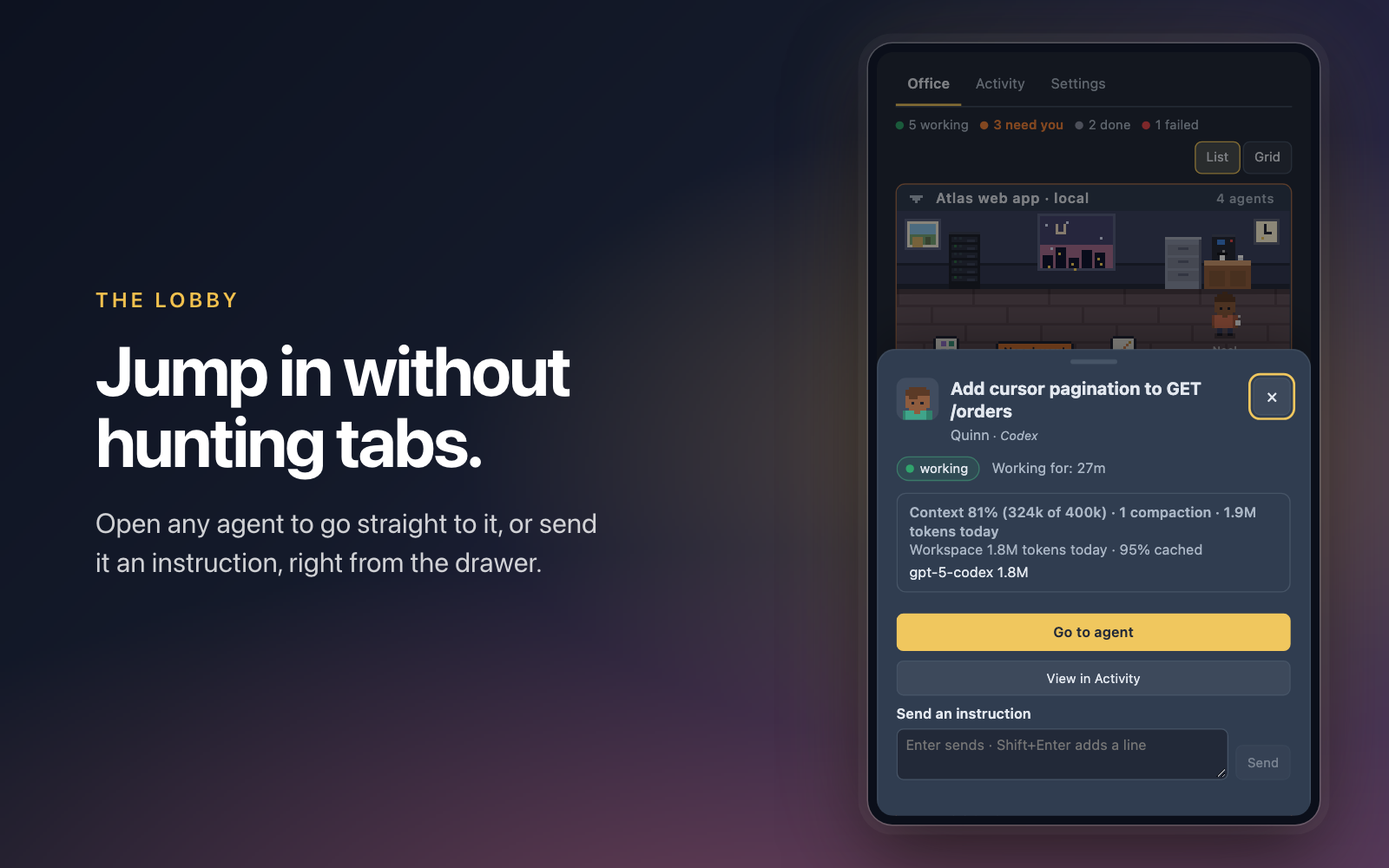
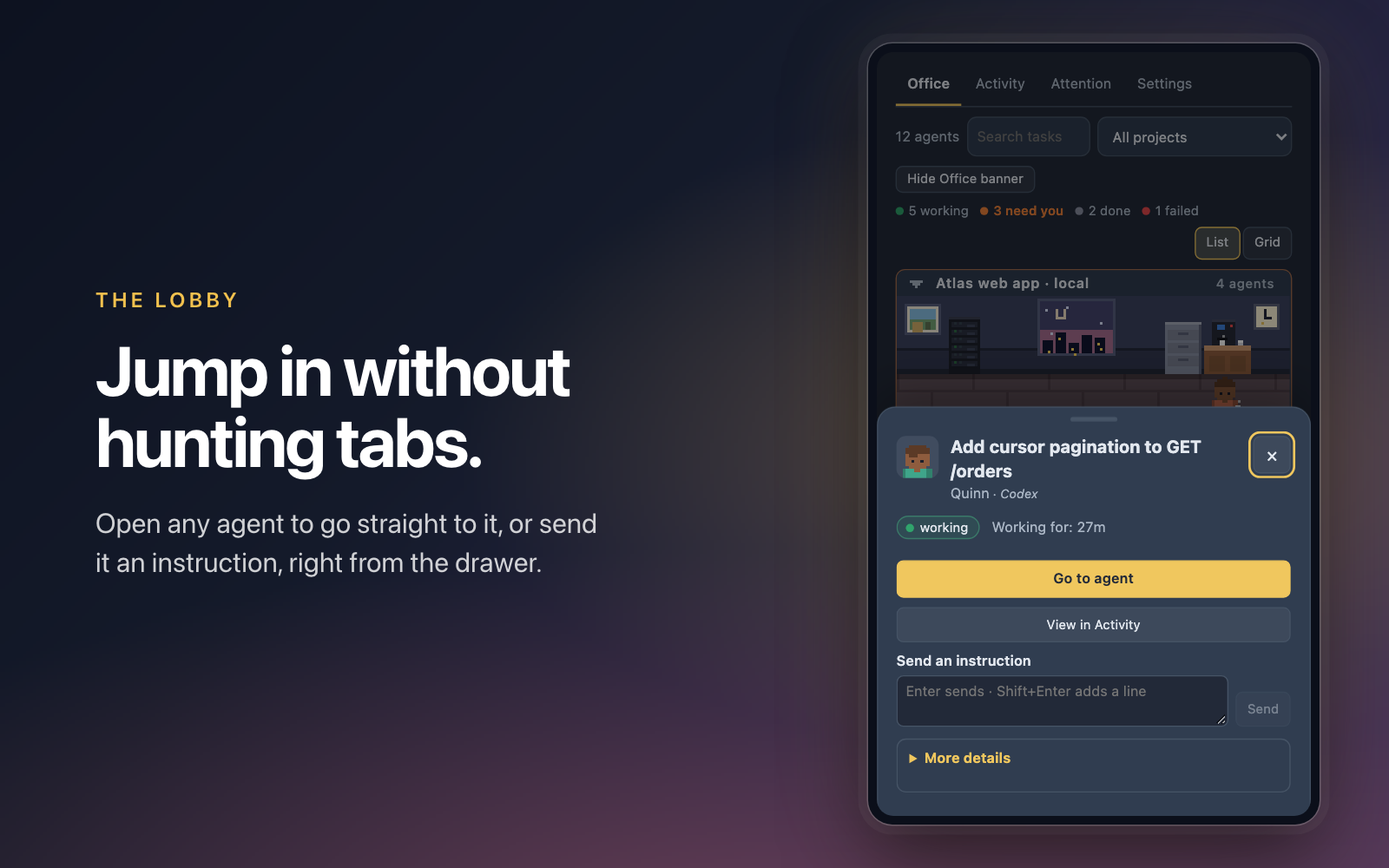
docs: finalize 1.3 draft and fixture media

Changed region(s): [[0.625, 0.093, 0.9688, 0.899]]

diff --git a/scripts/shots/fixture.js b/scripts/shots/fixture.js
@@ -11,6 +11,8 @@ const scenario=new URLSearchParams(location.search).get('scenario')||'linked';if
 if(scenario==='notificationexpiry'){const clock=Date.now.bind(Date);let elapsed=0;Date.now=()=>clock()+elapsed;window.advanceNotificationClock=(ms)=>{elapsed+=ms}}
 if(['notificationcontrols','notificationerrors','notificationstale','notificationreadstale','notificationexpiry','notificationkeys','notificationfocus'].includes(scenario)){window.fixture.agents=[agent('need','Needs a decision','blocked',{stateStartedAt:now-35*60_000}),agent('quiet','Quiet agent','working',{lastSeenAt:now-35*60_000})];window.fixture.projects.p='Fixture project'}
 if(['attentionview','attentionkeyboard','attentionfail'].includes(scenario))window.fixture.agents=[agent('need','Needs a decision','blocked'),agent('fail','Failed result','done',{outcome:'failure',finishedAt:now-8000,finishedAtSource:'source',completionId:'a'.repeat(64),completionTracked:true}),agent('done','Successful result','done',{outcome:'success',finishedAt:now-5000,finishedAtSource:'observed',completionId:'b'.repeat(64),completionTracked:true})];
+if(scenario==='attentionmedia'){window.fixture.agents=[agent('need','Approve the checkout validation plan','blocked',{projectId:'p',workspaceId:'/demo/atlas-web',stateStartedAt:now-12*60_000}),agent('fail','Repair the webhook key migration','done',{projectId:'q',workspaceId:'/demo/beacon-api',outcome:'failure',finishedAt:now-8000,finishedAtSource:'source',completionId:'a'.repeat(64),completionTracked:true}),agent('done','Review the updated cart flow','done',{projectId:'p',workspaceId:'/demo/atlas-web',outcome:'success',finishedAt:now-5000,finishedAtSource:'observed',completionId:'b'.repeat(64),completionTracked:true,unread:true})];Object.assign(window.fixture.projects,{p:'Atlas web app · local',q:'Beacon API · local'});Object.assign(window.fixture.workspaces,{'/demo/atlas-web':'atlas-web','/demo/beacon-api':'beacon-api'})}
+if(scenario==='notificationmedia')window.fixture.agents=[agent('need','Approve the checkout validation plan','blocked',{stateStartedAt:now-35*60_000}),agent('done','Review the updated cart flow','done',{outcome:'success',finishedAt:now-5000,finishedAtSource:'source',completionId:'b'.repeat(64),completionTracked:true,unread:true})];
 if(scenario==='attentionemptyview')window.fixture.agents=[agent('quiet','No action needed','working')];
 if(scenario==='attentionlive')window.fixture.agents=Array.from({length:100},(_,i)=>agent('a'+i,'Agent '+i,i===0?'blocked':'working'));
 if(scenario==='attentionlast')window.fixture.agents=[agent('last','Last result','done',{outcome:'success',completionId:'c'.repeat(64),completionTracked:true})];
@@ -59,10 +61,10 @@ const storageListeners=[];
 const stored={prefs:{notifyBlocked:true,notifyDone:true,animate:true,palette:'orca',layout:'list',stuckMinutes:20,projectOrder:[]}};
 const restartedPrefs=scenario==='prefsreadrecover'?localStorage.getItem('prefs-recovery'):null;
 if(restartedPrefs)stored.prefs=JSON.parse(restartedPrefs);
-if(['newinstall','delayedfresh','legacynoprefs','prefshydration','installationrecover','installationrecoverchoice','notificationcontrols','notificationerrors','notificationstale','notificationreadstale','notificationexpiry','notificationkeys','notificationfocus'].includes(scenario))delete stored.prefs;
+if(['newinstall','delayedfresh','legacynoprefs','prefshydration','installationrecover','installationrecoverchoice','attentionmedia','notificationmedia','notificationcontrols','notificationerrors','notificationstale','notificationreadstale','notificationexpiry','notificationkeys','notificationfocus'].includes(scenario))delete stored.prefs;
 if(['legacynoprefs','prefshydration'].includes(scenario))stored.office={agents:[],journal:[]};
 if(['projectgone','delayedfresh'].includes(scenario))stored.office={agents:[],journal:[]};
-stored.installation={version:1,kind:['newinstall','delayedfresh','notificationcontrols','notificationerrors','notificationstale','notificationreadstale','notificationexpiry','notificationkeys','notificationfocus'].includes(scenario)?'fresh':scenario==='installationunknown'?'unknown':'legacy'};
+stored.installation={version:1,kind:['newinstall','delayedfresh','attentionmedia','notificationmedia','notificationcontrols','notificationerrors','notificationstale','notificationreadstale','notificationexpiry','notificationkeys','notificationfocus'].includes(scenario)?'fresh':scenario==='installationunknown'?'unknown':'legacy'};
 if(scenario==='prefsrace')stored.prefs={notifyBlocked:true,notifyDone:true,animate:true,palette:'orca',layout:'list',stuckMinutes:20,projectOrder:['/old']};
 if(scenario==='prefsreadrecover'&&!restartedPrefs)stored.prefs={notifyBlocked:true,notifyDone:false,animate:true,palette:'paper',layout:'list',density:'comfortable',stuckMinutes:30,projectOrder:['/legacy'],selectedView:'office'};
 window.releaseReview=null;window.releaseOffice=null;window.releasePrefs=null;window.releasePrefsPatch=null;window.prefsPatchCalls=0;window.releaseOldAction=null;window.actionRequestCount=0;window.installRequests=0;window.goToCalls=0;window.notificationCalls=[];window.notificationPolicy={muted:false,snoozed:new Map()};window.releaseNotificationWrite=null;window.releaseStaleNotificationWrite=null;window.releaseStaleNotificationRead=null;window.releaseNotificationMute=null;window.releaseNotificationSnooze=null;window.notificationSnoozeWrites=0;window.notificationFocusStage='';window.notificationReadCalls=0;
@@ -141,6 +143,7 @@ const wait=()=>new Promise(r=>setTimeout(r,80));
 (async()=>{try{
 await wait();
 if(scenario==='media'){await wait();document.body.dataset.fixture='PASS';document.body.dataset.errors=window.errors.join('|');return}
+if(scenario==='attentionmedia'||scenario==='notificationmedia'){await wait();document.body.dataset.fixture='PASS';document.body.dataset.errors=window.errors.join('|');return}
 if(['notificationcontrols','notificationerrors','notificationstale','notificationreadstale','notificationexpiry','notificationkeys','notificationfocus'].includes(scenario)){
  const must=(ok,m)=>{if(!ok)throw Error(m)}, until=async(test,message)=>{for(let i=0;i<30&&!test();i++)await wait();must(test(),message)}, byKey=(key)=>document.querySelector(`[data-focus-key="${key}"]`), click=async(key)=>{const b=byKey(key);must(b&&!b.disabled,'missing or disabled '+key);b.click();await until(()=>![...document.querySelectorAll('.notification-project-status,.notification-agent-status')].some(x=>x.textContent.includes('Saving')||x.textContent.includes('Loading')),'action stayed pending: '+key)};
  must(document.querySelector('#attention-tab').getAttribute('aria-selected')==='true','fresh install did not start in Attention');

diff --git a/docs/index.html b/docs/index.html
@@ -132,8 +132,20 @@
         <p>See three live groups: <strong>Needs input</strong> for blocked agents, <strong>Failed to review</strong> for explicit failures, and <strong>Finished to review</strong> for unread or newly observed completions. Waiting, cancelled, interrupted or unconfirmed work is not called successful.</p>
         <p><strong>Go to agent</strong> is offered only when Orca reports a valid destination. <strong>Review details</strong> opens the drawer; <strong>Mark Reviewed</strong> records a Lobby-only decision. It does not clear Orca's unread flag, change status, or happen when you navigate or open the drawer. Reviewed keys are kept locally for up to 24 hours, with a 500-key cap.</p>
         <p>Search and the project filter also apply to Office and Activity. Search is literal and case-insensitive over reported task, friendly name, provider and known project/workspace/branch/host context. A missing project resets to All projects; Activity keeps reported ancestors needed to place a matching agent.</p>
+        <p>Mute a project to pause all Lobby notifications for it, or snooze an eligible reminder for 15 minutes, 1 hour or until resumed. Snooze affects reminders only. Agents stay visible and counted; clearing a mute or snooze never sends catch-up alerts. Transition alerts group by project and kind for two seconds from the first event.</p>
       </div>
     </article>
+
+    <div class="gallery" aria-label="Attention and notification controls">
+      <figure class="shot">
+        <div class="frame tall"><a href="images/attention-inbox.png" title="Open the full-size image"><img src="images/attention-inbox.png" width="840" height="2314" loading="lazy" alt="The Attention queue with Needs input, Failed to review and Finished to review groups."></a></div>
+        <figcaption>The live review queue. Reviewed is a local decision for that completion only.</figcaption>
+      </figure>
+      <figure class="shot">
+        <div class="frame tall"><a href="images/notification-controls.png" title="Open the full-size image"><img src="images/notification-controls.png" width="840" height="1877" loading="lazy" alt="Project notification mute and current-episode reminder snooze controls, with agents still in Attention."></a></div>
+        <figcaption>Project mute and episode reminder snooze are separate from Orca settings.</figcaption>
+      </figure>
+    </div>
 
     <article class="feature" id="office">
       <div class="text">
@@ -327,10 +339,10 @@
         <tbody>
           <tr><td data-label="Capability"><code>agent:read</code></td><td data-label="What it is for">Seeing your agents: their state, tasks, tool calls and results.</td><td data-label="When it is used">Continuously, to draw Attention, Office and Activity. Tool-call hooks only record the call and return at once; they never deny one.</td></tr>
           <tr><td data-label="Capability"><code>workspace:read</code></td><td data-label="What it is for">Workspace and project names, so rooms can be grouped.</td><td data-label="When it is used">When the roster changes or a workspace is added or removed.</td></tr>
-          <tr><td data-label="Capability"><code>storage:own</code></td><td data-label="What it is for">The plugin's own settings, office snapshot, bounded journal and completion/review metadata.</td><td data-label="When it is used">When settings, observed office state or a local Reviewed decision changes. The journal is at most 24 hours and does not store prompts.</td></tr>
+          <tr><td data-label="Capability"><code>storage:own</code></td><td data-label="What it is for">The plugin's own settings, office snapshot, bounded journal, completion/review metadata and notification policy.</td><td data-label="When it is used">When settings, observed office state, a local Reviewed decision or a mute/snooze choice changes. The journal is at most 24 hours and does not store prompts.</td></tr>
           <tr><td data-label="Capability"><code>workspace:write</code></td><td data-label="What it is for">Opening a workspace or bringing a terminal to the front.</td><td data-label="When it is used">Only when you press <strong>Go to agent</strong> or use the previous / next agent shortcuts.</td></tr>
           <tr><td data-label="Capability"><code>terminal:send</code></td><td data-label="What it is for">Typing into an agent's terminal.</td><td data-label="When it is used">Only when you press <strong>Send</strong> in the instruction box, or confirm <strong>Compact conversation</strong>. Never by itself. Those controls are hidden if the capability is not granted.</td></tr>
-          <tr><td data-label="Capability"><code>notifications:show</code></td><td data-label="What it is for">Optional desktop notifications.</td><td data-label="When it is used">When an agent starts needing you, ends a long turn, or seems stuck, if you left those switches on. All are in Settings.</td></tr>
+          <tr><td data-label="Capability"><code>notifications:show</code></td><td data-label="What it is for">Optional desktop notifications.</td><td data-label="When it is used">For enabled blocked, long-turn and quiet reminders, after project mute, episode snooze and burst grouping are applied.</td></tr>
         </tbody>
         <caption>Terminal actions go through <code>orca terminal send</code>, because the host's own text-sending call only works for the focused workspace.</caption>
       </table>

diff --git a/docs/guide.html b/docs/guide.html
@@ -106,6 +106,13 @@
           <li>Search is literal and case-insensitive over reported task/prompt, friendly name, provider and known project/workspace/branch/host labels. Project selection also filters. Activity keeps the reported chart ancestors needed to locate matching agents.</li>
         </ul>
         <p class="note">Completion identity prefers source finish time and reported turn/session identifiers. When those are missing, The Lobby persists the identity of its local observation. If Orca omits every discriminator and an entire new turn happens while unobserved in the same pane, it cannot be distinguished reliably from the previous turn. A source finish is labeled “Finished”; a local timestamp is labeled “Done observed”.</p>
+        <h3 id="notification-guide">Project mute and reminder snooze</h3>
+        <ul>
+          <li>Mute a project to pause all The Lobby notifications for it. Agents remain visible and counted, and this does not change Orca's own notification settings.</li>
+          <li>Snooze an eligible blocked/quiet episode's reminder for 15 minutes, 1 hour or until resumed. The displayed expiry is absolute. Snooze affects reminders only; a later transition or episode is treated separately.</li>
+          <li>Unmuting or resuming does not send missed alerts later. Eligible transition alerts are grouped by project and kind for two seconds from the first event; one event keeps its individual message and a burst becomes one count summary.</li>
+          <li>Policy storage allows up to 200 muted projects, 500 snoozes and 1,000 handled identities within 200,000 serialized bytes. Read and write errors stay visible with a retry; an unsuccessful write is not shown as saved.</li>
+        </ul>
         <h3>Office</h3>
         <ul>
           <li>Click a room sign to open or close its agent area. Rooms follow the order of Orca's sidebar. Point at a room and press ↑ or ↓ to set your own order, shared with Activity; Settings has <strong>Use the sidebar order again</strong>.</li>
@@ -194,6 +201,7 @@
           <li><strong>Git</strong>: <code>git diff --shortstat HEAD</code> for uncommitted changes.</li>
           <li><strong>Local journal</strong>: observed activity for up to 24 hours, oldest dropped first to fit the 200,000-byte serialized storage bound, never sent to the panel. It may hold clipped result or tool details; it does not store prompts.</li>
           <li><strong>Completion and review metadata</strong>: bounded identities let one completion stay reviewed across polling and restart. Reviewed keys are kept for 24 hours, capped at 500, and do not alter Orca's unread or status state.</li>
+          <li><strong>Notification policy</strong>: local project mutes, episode snoozes and handled identities share the 200,000-byte serialized limit; caps are 200 mutes, 500 snoozes and 1,000 handled identities. A failed read/write is reported; a failed write is never acknowledged as saved.</li>
           <li><strong>No money estimate</strong> is ever made from tokens.</li>
         </ul>
       </section>
@@ -203,6 +211,14 @@
         <details>
           <summary>What does Reviewed do?</summary>
           <div><p>It hides that completion from The Lobby's review queue after a successful local save. It does not clear Orca's unread flag or change agent status. Opening details or navigating does not review a result. Reviewed keys expire after 24 hours; at most 500 are retained.</p></div>
+        </details>
+        <details>
+          <summary>What do mute and snooze change?</summary>
+          <div><p>Project mute pauses all Lobby notifications for the selected project while its agents stay visible and counted. Episode snooze pauses repeat reminders for 15 minutes, 1 hour or until resumed; it does not suppress transition alerts. Neither changes Orca notification settings or sends catch-up alerts when cleared.</p></div>
+        </details>
+        <details>
+          <summary>Why does a notification control show an error?</summary>
+          <div><p>The worker could not read or save its bounded local policy. The panel keeps the error visible and offers a retry; a failed write is not treated as saved. The policy allows up to 200 muted projects, 500 snoozes and 1,000 handled identities within 200,000 serialized bytes.</p></div>
         </details>
         <details>
           <summary>When does the panel open to Attention or Office?</summary>

diff --git a/scripts/media/render.py b/scripts/media/render.py
@@ -104,10 +104,10 @@ POSTERS = {
         side='r', frame=(690, 90, 880, 820), layout=640, cw=550, fit=('.office', 1),
         panel=dict(layout='grid', only='atlas-web,beacon-api', css=FIT + 'body { padding-top: 14px } ' + NO_TABS)),
     'attention': dict(
-        kicker='The Lobby', headline='Know who needs you.',
-        text='Speech bubbles say who needs you, who seems stuck and what just failed.',
-        side='l', frame=(110, 70, 560, 860), layout=340, fit=('.office', 1),
-        panel=dict(fresh=1, only='atlas-web,beacon-api', css='#banner, .room-usage, .roster { display: none } body { padding-top: 12px } ' + NO_TABS)),
+        kicker='The Lobby', headline='Know what needs a look.',
+        text='One live queue for agents who need input and results to review.',
+        side='l', frame=(110, 70, 560, 860), layout=440, fit=('#attention-list', 0),
+        panel=dict(scenario='attentionmedia', css='#banner, #primary-tabs, #view-filters, #prefs-status, .notification-controls { display: none } body { padding-top: 12px }')),
     'activity': dict(
         kicker='The Lobby', headline='See who started whom.',
         text='An org chart per project, with the exact parent and worker links Orca reports. Never guessed.',

diff --git a/scripts/shots/media.py b/scripts/shots/media.py
@@ -108,6 +108,16 @@ def attention(chrome, html):
     page.shot('attention', through=('.chart-block', 1))
 
 
+def attention_inbox(chrome, html):
+    page = Page(chrome, html, 420, hour=21.5, scenario='attentionmedia')
+    page.shot('attention-inbox', through=('#attention-list', 0))
+
+
+def notification_controls(chrome, html):
+    page = Page(chrome, html, 420, hour=21.5, scenario='notificationmedia')
+    page.shot('notification-controls', through=('#attention-list', 0))
+
+
 def drawer(chrome, html):
     page = Page(chrome, html, 420, height=950, hour=21.5)
     page.click('office-row:a1-quinn')
@@ -186,7 +196,7 @@ def office_animation(chrome, html):
     shutil.rmtree(frames, ignore_errors=True)
 
 
-IMAGES = {fn.__name__.replace('_', '-'): fn for fn in (office, office_grid, office_light, activity, attention, drawer, bubbles, settings, office_animation)}
+IMAGES = {fn.__name__.replace('_', '-'): fn for fn in (office, office_grid, office_light, activity, attention, attention_inbox, notification_controls, drawer, bubbles, settings, office_animation)}
 
 wanted = args.only.split(',') if args.only else list(IMAGES)
 unknown = [name for name in wanted if name not in IMAGES]

diff --git a/README.md b/README.md
@@ -39,9 +39,9 @@ Orca shows the permissions the plugin asks for ([below](#permissions)) and asks 
 
 ## Screenshots
 
-| Know who needs you | See who started whom |
+| Attention: three live groups | See who started whom |
 | --- | --- |
-| <img src="docs/images/catalog/attention.png" alt="Need you!, Stuck? and Failed bubbles, with Needs attention dimming the rest" width="100%"> | <img src="docs/images/catalog/activity.png" alt="An org chart per project with who started whom" width="100%"> |
+| <img src="docs/images/catalog/attention.png" alt="Attention queue with Needs input, Failed to review and Finished to review groups" width="100%"> | <img src="docs/images/catalog/activity.png" alt="An org chart per project with who started whom" width="100%"> |
 | **Act without hunting through tabs** | **Watch the context fill** |
 | <img src="docs/images/catalog/drawer.png" alt="The agent drawer: Go to agent, an instruction box and Compact" width="100%"> | <img src="docs/images/catalog/context.png" alt="Context fill and tokens per agent" width="100%"> |
 
@@ -55,6 +55,12 @@ The panel itself, with demo data:
 
 <img src="docs/images/office-grid.png" alt="The Office tab in grid layout, two projects per row" width="100%">
 
+Attention queue and its local notification controls:
+
+| Attention | Project mute and reminder snooze |
+| --- | --- |
+| <img src="docs/images/attention-inbox.png" alt="Attention queue with needs-input, failed and finished results" width="320"> | <img src="docs/images/notification-controls.png" alt="Lobby-local project notification mute and episode reminder snooze controls" width="320"> |
+
 ## Features
 
 ### Attention
@@ -64,6 +70,12 @@ Attention groups the current live roster into **Needs input** (blocked), **Faile
 Reviewed markers are stored in Orca's per-plugin storage for up to 24 hours and at most 500 completion keys. Opening a drawer or navigating does not mark anything Reviewed, and a later completion gets its own identity when its transition is observed or Orca reports a distinguishing turn/session value.
 
 Search and the project filter are shared with Office and Activity. Search uses reported task, prompt, friendly name, provider and project/workspace/branch/host labels; chart ancestors remain visible to keep matching agents in context.
+
+### Notification controls
+
+Mute a project to pause all Lobby notifications for it, or snooze an eligible blocked/quiet episode's reminder for 15 minutes, 1 hour or until you resume it. Agents remain visible and counted; snoozing affects reminders only, not transition notifications, and resuming or unmuting does not send missed alerts later. A snooze shows its absolute expiry, and a new episode is treated separately.
+
+Eligible transition alerts are grouped by project and kind over a fixed two-second window from the first event. One event keeps its individual message; a burst becomes one count summary. Duplicate events from the hook, roster and restart are suppressed. These controls are separate from Orca's notification settings.
 
 ### Office
 
@@ -147,6 +159,7 @@ The plugin also reads agent events through hooks (`agent.tool.before` / `agent.t
 - The office state: current agents with their title, short prompt and last-reply excerpts (up to 400 characters), tool-call labels (up to 80 characters), recent state history, and the counts for today.
 - A bounded observation journal of state changes and tool calls: at most 24 hours, oldest dropped first to fit the 200,000-byte storage bound. It may hold clipped tool details and result excerpts; it does not store prompts. **Clear local activity history** in Settings empties it. The journal is never sent to the panel.
 - Bounded completion identity metadata and Reviewed completion keys. Reviewed keys expire after 24 hours and are capped at 500; they are not sent to agents and do not change Orca's unread or status state.
+- Notification policy: muted project ids, reminder snoozes and handled notification identities. It is bounded to the same 200,000-byte serialized storage limit, with caps of 200 muted projects, 500 snoozes and 1,000 handled transitions. If storage is unavailable or a change cannot fit, the control reports the error and does not claim it was saved.
 
 **What it types.** The plugin types into a terminal only after you press **Send** or confirm **Compact conversation**, and only while Orca's own list still shows that agent working in a terminal no other agent shares.
 

diff --git a/scripts/shots/README.md b/scripts/shots/README.md
@@ -3,7 +3,7 @@
 This folder renders the plugin's **real panel code** (`panel/`) in headless Chrome, against stubbed
 data, and uses that for two things:
 
-- **Checks** (`run.py`): about 56 scenarios that load the panel at exact widths, click, type, press
+- **Checks** (`run.py`): 101 scenarios that load the panel at exact widths, click, type, press
   keys and scroll, and fail on the first thing that is wrong. They double as an end-to-end test of the
   panel.
 - **Media** (`media.py`): the images in `docs/images/` (README and website) and a short animation, drawn from
@@ -87,6 +87,8 @@ numbers.
 | `office-grid.png` | 900 wide × 2 | Office in Grid, two rooms side by side |
 | `activity.png` | 900 wide × 2 | Activity: one connected org chart per project |
 | `attention.png` | 900 wide × 2 | Activity with **Needs attention** on |
+| `attention-inbox.png` | 420 wide × 2 | Attention queue: Needs input, Failed to review and Finished to review |
+| `notification-controls.png` | 420 wide × 2 | Project mute and the three reminder snooze choices alongside visible agents |
 | `drawer.png` | 420 × 950 × 2 | Agent drawer: Go to agent, instruction box, context and tokens |
 | `bubbles.png` | 420 wide × 2 | Two rooms close up: **Need you!**, **Stuck?**, a reply and **Failed** bubbles |
 | `settings.png` | 420 wide × 2 | The Settings tab |
@@ -106,26 +108,28 @@ encodes a GIF (ffmpeg palette) and a WebP (`gif2webp`).
 Current sizes (from `python3 scripts/shots/sizes.py`):
 
 ```
-activity.png                  1800 x 1665       179 KB
-attention.png                 1800 x 1665       188 KB
-bubbles.png                    840 x 932         44 KB
-catalog/activity.png          1600 x 1000       205 KB
-catalog/attention.png         1600 x 1000       164 KB
-catalog/context.png           1600 x 1000       196 KB
-catalog/cover.png             1600 x 1000       160 KB
-catalog/drawer.png            1600 x 1000       183 KB
-catalog/office.png            1600 x 1000       209 KB
-catalog/palettes.png          1600 x 1000       187 KB
-cover.png                     1280 x 640        125 KB
-drawer.png                     840 x 1900       261 KB
+activity.png                  1800 x 1613       196 KB
+attention-inbox.png            840 x 2314       203 KB
+attention.png                 1800 x 1613       205 KB
+bubbles.png                    840 x 932         45 KB
+catalog/activity.png          1600 x 1000       211 KB
+catalog/attention.png         1600 x 1000       175 KB
+catalog/context.png           1600 x 1000       184 KB
+catalog/cover.png             1600 x 1000       174 KB
+catalog/drawer.png            1600 x 1000       177 KB
+catalog/office.png            1600 x 1000       217 KB
+catalog/palettes.png          1600 x 1000       197 KB
+cover.png                     1280 x 640        135 KB
+drawer.png                     840 x 1900       150 KB
 icon.png                       256 x 256         34 KB
-office-grid.png               1800 x 2378       322 KB
-office-light.png               840 x 2526       229 KB
-office.gif                     420 x 562         88 KB
-office.png                     840 x 2526       228 KB
-office.webp                    420 x 562         82 KB
-settings.png                   840 x 1380       144 KB
-total                                          3226 KB
+notification-controls.png      840 x 1877       166 KB
+office-grid.png               1800 x 2523       350 KB
+office-light.png               840 x 2672       252 KB
+office.gif                     420 x 635         88 KB
+office.png                     840 x 2672       250 KB
+office.webp                    420 x 635         92 KB
+settings.png                   840 x 1573       179 KB
+total                                          3681 KB
 ```
 
 ## Files

diff --git a/tasks/todo.md b/tasks/todo.md
@@ -105,23 +105,23 @@ Status: reviewed two-second grouping and worker dispatch backend passed policy/w
 
 ## 11 — Integrated regression and compatibility checks (M)
 
-- [ ] Extend browser scenarios for search, review, density, migration, empty/error states, burst updates and keyboard focus; retain all existing scenarios.
-- [ ] Verify storage/payload bounds and startup behavior; run the full unit, TypeScript, plugin and screenshot checks in plan.md.
+- [x] Extend browser scenarios for search, review, density, migration, empty/error states, burst updates and keyboard focus; retain all existing scenarios.
+- [x] Verify storage/payload bounds and startup behavior; run the full unit, TypeScript, plugin and screenshot checks in plan.md.
 - [ ] Exercise real paired-server disconnect/reconnect and Windows/Linux where hosts are available; record exact outcomes and remaining limitations rather than treating simulated coverage as hardware validation.
 
 Dependencies: 04–10. Likely files: scripts/shots/fixture.js, scripts/shots/run.py, scripts/shots/demo.js, src/worker.test.ts, docs/ROADMAP.md. Split any newly discovered production fix into its own tested task.
 
-Integration evidence: all seven reviewed notification commits were cherry-picked in order. Combined root checks passed: 237 plugin tests, TypeScript, plugin check and 92 existing browser scenarios. Real paired-server and non-macOS checks, Checkpoint C and the live trial remain pending.
+Integration evidence: all seven reviewed notification commits were cherry-picked in order. Combined root checks passed: 238 plugin tests, `npx --yes --package typescript tsc --noEmit`, plugin check (valid, no errors), and 101 browser scenarios across 280/320/340/420/900px, including keyboard, reduced-motion, storage-failure, notification-control and focus cases. Storage bounds passed; the public image set is 3,681 KB against the 8 MB budget. Real paired-server reconnect and Windows/Linux checks were not available; Checkpoint C and the live trial remain pending.
 
 ## 12 — Docs, website and media (M)
 
-- [ ] Update README/architecture for local Reviewed semantics, retention, permissions, mute/snooze, defaults and the actual platform/API limits.
-- [ ] Update website landing page, guide/FAQ, changelog and contributor credits to match the final scope.
-- [ ] Regenerate fixture-based screenshots/posters; check image limits, links, desktop/mobile rendering and browser errors.
+- [x] Update README/architecture for local Reviewed semantics, retention, permissions, mute/snooze, defaults and the actual platform/API limits.
+- [x] Update website landing page, guide/FAQ, changelog and contributor credits to match the final scope.
+- [x] Regenerate fixture-based screenshots/posters; check image limits, links, desktop/mobile rendering and browser errors.
 
 Dependencies: 11; draft copy may begin earlier. Documentation batch: README.md, docs/ARCHITECTURE.md, docs/index.html, docs/guide.html, CHANGELOG.md. Media/catalog updates are a separate follow-up batch using existing scripts and docs/LISTING.md.
 
-Draft documentation is being updated against implemented root behavior. Final media and notification copy wait for integrated task 09–10 review and task 11 verification.
+Draft documentation now describes reviewed 1.3 development behavior while keeping the published 1.2.0 install/version explicit. Fixture-based media includes the Attention queue and project mute/episode snooze controls; the public image set is 3,681 KB. Local targets/anchors, desktop/mobile rendering at 390px, browser console and image limits passed; paired-server/platform verification and the Checkpoint B/C live trials remain outstanding.
 
 ## 13 — Review, trial and 1.3.0 release
 

diff --git a/docs/LISTING.md b/docs/LISTING.md
@@ -2,6 +2,8 @@
 
 What to submit for The Lobby, checked against the catalog's rules (<https://onorca.dev/plugins/add/>, the [listing policy](https://github.com/stablyai/orca/blob/main/docs/reference/plugin-listing-policy.md) and [plugin authoring](https://github.com/stablyai/orca/blob/main/docs/reference/plugin-authoring.md), read 2026-11-13).
 
+This entry describes the published 1.2.0 tag. The 1.3.0 material below is not submitted or released; keep the catalog metadata and manifest at 1.2.0 until the separate release gate is authorized.
+
 ## How listing works
 
 There is no form and no queue. The directory lists a public GitHub repository that has the `orca-plugin` topic and a `vX.Y.Z` tag, usually within an hour, if the manifest passes Orca's validator and the safety checks. It lists the newest tag, pinned to its exact commit and content hash; pushes without a new tag change nothing. The plugin's status page is `https://orca.dev/plugins/Lilykos/orca-the-lobby`. Community plugins are checked by machine, not reviewed.
@@ -43,6 +45,10 @@ Run a dozen agents in parallel worktrees and still know, at a glance, who is wor
 
 The plugin has no telemetry or direct network requests. Orca uses its existing connections to list agents on paired servers and navigate to them; Git and Claude Code/Codex log enrichment remain local. Unreachable paired servers disappear until reconnection. It acts only when you press something: it opens a workspace or brings a terminal forward on **Go to agent**, and types into a terminal only on **Send** or a confirmed **Compact conversation**. Plugins cannot type into Orca chat agents, and Claude Code's logs state no context window, so Claude agents show tokens without a percentage; the README lists the other limits.
 
+### Next-release draft — 1.3.0 (not published)
+
+The development branch adds Attention with completion-scoped local Reviewed markers (24-hour retention, 500-key cap), shared search/project filtering, density and drawer disclosures. It also adds local project mute, current-episode reminder snooze (15 minutes, 1 hour or manual resume) and two-second per-project/per-kind notification grouping. These changes preserve the published 1.2.0 catalog entry and its six-image limit until the 1.3 release is reviewed and authorized. See the current [development guide](../README.md) for actual limits and identity ambiguities.
+
 ### Capabilities declared
 
 `agent:read`, `workspace:read`, `storage:own`, `workspace:write` (Go to agent, Previous / Next agent), `notifications:show` (optional notifications), `terminal:send` (instruction box and Compact, only on request). Each is explained in the README's Permissions section.
@@ -56,7 +62,7 @@ Alt text and captions, in the order to show them. Files are in `docs/images/`.
 | cover | `docs/images/catalog/cover.png` | The Lobby: the pixel title and orca mascot, a tagline, and two project rooms with Need you!, Stuck? and Failed speech bubbles |
 | icon | `docs/images/icon.png` | The Lobby icon: the orca mascot |
 | 1 | `docs/images/catalog/office.png` | Every agent, every worktree, one glance |
-| 2 | `docs/images/catalog/attention.png` | Know who needs you |
+| 2 | `docs/images/catalog/attention.png` | Attention queue: Needs input and results to review |
 | 3 | `docs/images/catalog/activity.png` | See who started whom |
 | 4 | `docs/images/catalog/drawer.png` | Jump in without hunting tabs |
 | 5 | `docs/images/catalog/context.png` | Context and tokens, per agent |

diff --git a/docs/ARCHITECTURE.md b/docs/ARCHITECTURE.md
@@ -48,6 +48,16 @@ Panel preference changes are validated field patches serialized by the worker, w
 
 Search and project selection share one normalized projection across Attention, Office and Activity. Activity retains reported ancestors needed to locate matching descendants, and the Office and chart manual project order is unchanged. The drawer leads with task, state, result and available primary action, then places calls, context/tokens and other supplemental information behind a native disclosure.
 
+## Notification policy
+
+The worker stores project mutes and episode-scoped reminder snoozes separately from user preferences and Orca settings. A project mute suppresses all Lobby notifications for that project; a 15-minute, one-hour or manual snooze suppresses repeat quiet/blocked reminders for the current episode only. It does not suppress transition alerts, hide/count fewer agents, or catch up on alerts when resumed/unmuted. Snooze expiry is absolute, and a later episode has a separate identity.
+
+Eligible state-transition alerts are grouped by project and kind for a fixed two seconds from the first event; one event keeps its individual message, while a burst produces a project/count summary. Event, roster and restore observations share stable identities so a transition is not replayed on restart. The policy is limited to 200 muted projects, 500 snoozes and 1,000 handled transition/reminder identities; pending groups are capped at 500. Its complete serialized value must fit the 200,000-byte storage budget. A malformed, unreadable or over-capacity policy leaves controls unavailable or unsaved with a visible error; the panel exposes retry, and an unsuccessful write is not acknowledged as saved.
+
+## Verification and release state
+
+1.3 is implemented on the development branch but remains unreleased; the manifest and About version still describe published 1.2.0. Current automated verification runs on macOS with isolated synthetic browser fixtures. Real paired-server behavior and Windows/Linux runtime behavior have not been exercised, and notification checkpoint/live-trial approval remains outstanding. Local Claude transcript enrichment reads titles and recent prompts for heuristic matching plus TodoWrite entries and edited file names; it remains on the machine, and prompt text is not added to the activity journal.
+
 ## Context chain
 
 Per-agent context never comes from titles, times or folders, only an exact id chain:

diff --git a/CHANGELOG.md b/CHANGELOG.md
@@ -2,14 +2,16 @@
 
 ## Unreleased
 
-Draft notes for 1.3; integration review and final fixture media are still pending.
+Development notes for the unreleased 1.3.0 proposal. The catalog install command still serves published 1.2.0; do not treat these notes as a release announcement.
 
 - Add **Attention** for blocked agents, explicit failures and unread or newly observed completions, with Lobby-local **Reviewed** state that never changes Orca's unread or status data.
 - Share literal search and project filtering across Attention, Office and Activity; add Comfortable / Compact density and remember the selected functional view.
 - Preserve Office as the initial view for 1.2 upgrades and open Attention by default only on genuinely new installations.
 - Put task, state, result and available action first in the drawer; progressively disclose calls, tokens and supplementary details.
 - Keep source finish timestamps distinguishable from local observation times. Completion identity remains ambiguous when Orca reports no turn/session discriminator and the transition was not observed.
-- Existing notification settings remain. Project mute, reminder snooze and burst grouping are not included in these draft notes pending their worker integration and review.
+- Add project-local notification mute and episode reminder snooze for 15 minutes, 1 hour or until resumed. Mute affects all Lobby notifications for the project; snooze affects reminders only. Neither hides agents or changes Orca settings, and resuming/unmuting does not replay missed alerts.
+- Group eligible notifications by project and kind over a fixed two-second window from the first event; preserve individual messages for single events and summarize bursts. Bound policy storage and report read/write failures without claiming unsaved changes succeeded.
+- Preserve the pixel Office, Office on 1.2 upgrades, manual project order, palettes, reduced motion, and existing contributor credit.
 
 ## 1.2.0
 

diff --git a/scripts/media/README.md b/scripts/media/README.md
@@ -24,7 +24,7 @@ follow the machine that renders them.
 | `cover` | `docs/images/catalog/cover.png` | 1600 × 1000 | Kicker, the pixel title with the orca, a tagline, four feature pills and two real rooms with speech bubbles |
 | `social` | `docs/images/cover.png` | 1280 × 640 | The same cover, laid out for the GitHub social preview |
 | `office` | `docs/images/catalog/office.png` | 1600 × 1000 | Every agent, every worktree, one glance: the Office in Grid, two rooms |
-| `attention` | `docs/images/catalog/attention.png` | 1600 × 1000 | Know who needs you: two rooms with Need you!, Stuck?, Failed and a finished reply |
+| `attention` | `docs/images/catalog/attention.png` | 1600 × 1000 | The Attention queue: Needs input, Failed to review and Finished to review |
 | `activity` | `docs/images/catalog/activity.png` | 1600 × 1000 | See who started whom: an org chart with a coordinator and its workers |
 | `drawer` | `docs/images/catalog/drawer.png` | 1600 × 1000 | Jump in without hunting tabs: the drawer with Go to agent and the instruction box |
 | `context` | `docs/images/catalog/context.png` | 1600 × 1000 | Context and tokens, per agent: a closer crop of the drawer's context line |
@@ -32,7 +32,7 @@ follow the machine that renders them.
 | `icon` | `docs/images/icon.png` | 256 × 256 | The orca on the dusk backdrop, enlarged 6× without smoothing |
 
 The catalog takes the cover and up to six screenshots (`orca-plugin.json` lists them with their captions and alt
-text). `scripts/shots/media.py` still makes the README and website images.
+text). `scripts/shots/media.py` also makes the README and website images, including the Attention queue and notification controls; those controls show project mute and episode reminder snooze separately.
 
 ## How it works
 
